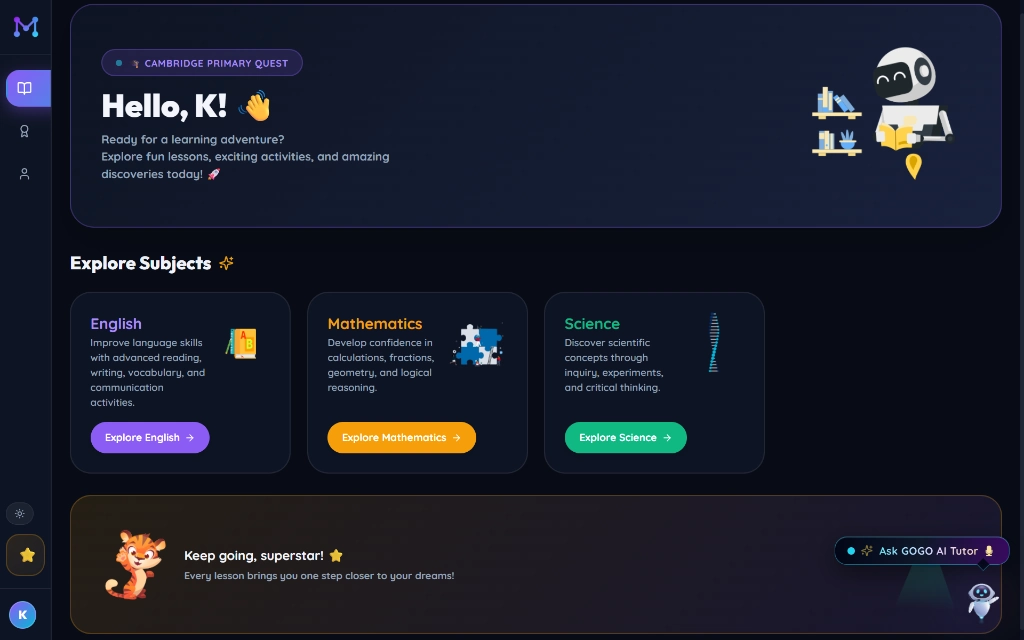
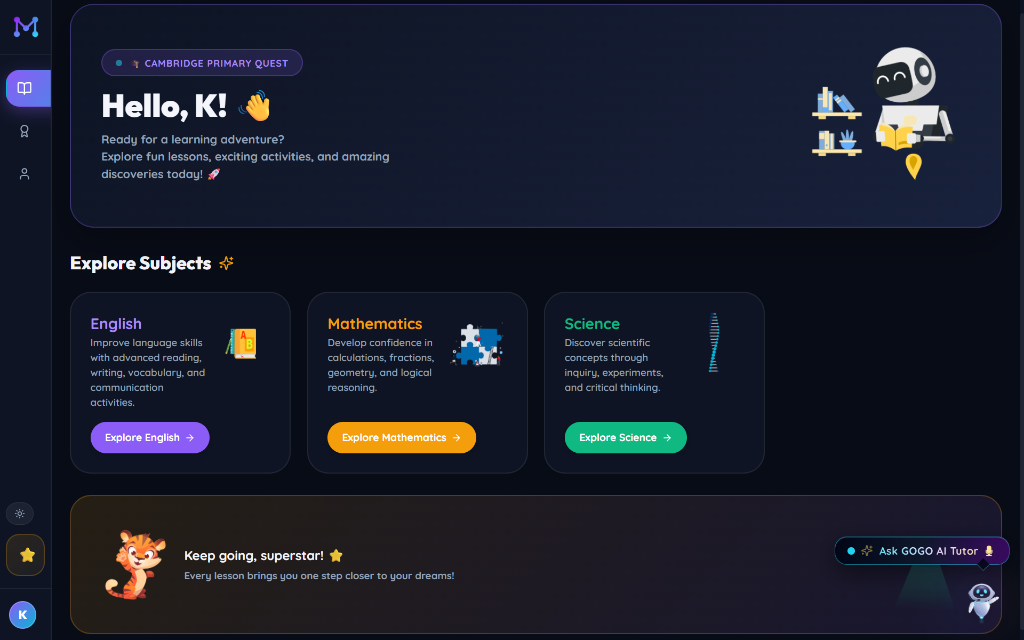
feat: Replace Card 04 with realistic Checkpoint Exam Engine display, use torch.webp for Card 01 simulation image

diff --git a/frontend/src/features/landing/LandingPage.jsx b/frontend/src/features/landing/LandingPage.jsx
@@ -776,28 +776,29 @@ function FeaturesBento() {
         <div className="grid grid-cols-1 md:grid-cols-3 lg:grid-cols-4 gap-4 auto-rows-[minmax(220px,auto)]">
           {/* Simulations */}
           <BentoCard
-            className="md:col-span-2 lg:col-span-2 lg:row-span-2"
+            className="md:col-span-2 lg:col-span-2"
             tag="01 · Interactive simulations"
             tagColor="text-cyan-400"
             title="Drag, adjust, and explore with hands-on labs."
             description="Over 120 interactive Cambridge Primary Science and Math models. Move light sources, adjust variables, watch shadows shift, and build lasting understanding."
+            icon={<Atom className="h-5 w-5 text-cyan-400" />}
             testid="feature-simulations"
           >
-            <div className="mt-6 relative h-56 rounded-xl border border-white/10 overflow-hidden bg-zinc-950">
+            <div className="mt-5 relative h-60 sm:h-64 rounded-xl border border-white/10 overflow-hidden bg-zinc-950">
               <img
-                src="https://images.pexels.com/photos/29067691/pexels-photo-29067691.jpeg?auto=compress&cs=tinysrgb&w=600"
-                alt="Simulation"
-                className="absolute inset-0 w-full h-full object-cover opacity-50"
+                src="/torch.webp"
+                alt="3D Science Simulation Lab"
+                className="absolute inset-0 w-full h-full object-cover object-center opacity-95 scale-110 sm:scale-120"
               />
               <div className="absolute inset-0 bg-gradient-to-t from-zinc-950 via-zinc-950/30 to-transparent" />
-              <div className="absolute bottom-4 left-4 right-4 flex items-end justify-between">
+              <div className="absolute bottom-3 left-3.5 right-3.5 flex items-end justify-between">
                 <div>
-                  <div className="font-mono-label text-[10px] uppercase tracking-[0.18em] text-cyan-400">
+                  <div className="font-mono-label text-[9.5px] uppercase tracking-[0.18em] text-cyan-400 font-bold">
                     Live · Primary Science · Light & Shadows
                   </div>
-                  <div className="font-display text-lg font-bold text-white mt-1">Shadow Length ⇌ Torch Distance</div>
+                  <div className="font-display text-base font-bold text-white mt-0.5">Shadow Length ⇌ Torch Distance</div>
                 </div>
-                <div className="px-3 py-1 rounded-full border border-cyan-500/40 bg-cyan-500/10 text-cyan-300 font-mono-label text-[9px] font-bold">
+                <div className="px-2.5 py-0.5 rounded-full border border-cyan-500/40 bg-cyan-500/10 text-cyan-300 font-mono-label text-[9px] font-bold">
                   RUNNING
                 </div>
               </div>
@@ -887,19 +888,66 @@ function FeaturesBento() {
             </div>
           </BentoCard>
 
-          {/* Auto exams */}
+          {/* Checkpoint Exam Engine */}
           <BentoCard
             className="md:col-span-3 lg:col-span-2"
-            tag="04 · Practice exam engine"
+            tag="04 · Checkpoint Exam Engine"
             tagColor="text-emerald-400"
-            title="Official exam format. Instant feedback."
-            description="Practice past papers under realistic exam timers. Automated grading checks answers instantly and highlights areas for improvement."
+            title="Realistic Checkpoint Exam Simulator."
+            description="Train under real exam conditions with strict timed papers, official Cambridge question formats, and structured scoring criteria."
+            icon={<Timer className="h-5 w-5 text-emerald-400" />}
             testid="feature-exams"
           >
-            <div className="mt-6 grid grid-cols-3 gap-2.5">
-              <MockTimer label="Paper 1" time="00:45:00" pct={62} color="cyan" />
-              <MockTimer label="Paper 2" time="01:15:00" pct={48} color="emerald" />
-              <MockTimer label="Paper 3" time="00:30:00" pct={91} color="cyan" />
+            <div className="mt-5 rounded-xl border border-white/10 bg-zinc-950 p-4 relative overflow-hidden">
+              {/* Header status bar */}
+              <div className="flex items-center justify-between border-b border-white/10 pb-3 mb-3">
+                <div className="flex items-center gap-2">
+                  <div className="h-2 w-2 rounded-full bg-emerald-400 animate-ping" />
+                  <span className="font-mono-label text-[10px] uppercase tracking-wider text-zinc-300 font-bold">
+                    Stage 5 Checkpoint Exam
+                  </span>
+                </div>
+                <span className="px-2.5 py-0.5 rounded-full border border-emerald-500/30 bg-emerald-500/10 text-emerald-400 font-mono-label text-[9px] font-bold uppercase tracking-wider">
+                  Exam Mode Active
+                </span>
+              </div>
+
+              {/* Center HUD: Countdown & Active Question */}
+              <div className="flex flex-col sm:flex-row items-center justify-between gap-4 py-1">
+                <div>
+                  <div className="font-mono text-2xl sm:text-3xl font-black text-white tracking-wider">
+                    00:45:00
+                  </div>
+                  <span className="text-[9.5px] text-zinc-500 font-mono-label uppercase tracking-wider block mt-0.5">
+                    Strict Time Limit · No Pause
+                  </span>
+                </div>
+
+                <div className="w-full sm:w-auto bg-white/[0.03] border border-white/10 rounded-xl p-2.5 text-left">
+                  <div className="text-[10px] font-mono-label text-cyan-400 font-bold">
+                    QUESTION 4 OF 12 · 4 MARKS
+                  </div>
+                  <div className="text-xs text-zinc-300 font-medium mt-1 truncate max-w-[210px]">
+                    Explain using a ray diagram how shadow length changes...
+                  </div>
+                </div>
+              </div>
+
+              {/* Progress bar */}
+              <div className="mt-3.5 pt-3 border-t border-white/5">
+                <div className="flex justify-between text-[9px] font-mono-label text-zinc-400 mb-1.5 font-bold">
+                  <span>EXAM PROGRESS</span>
+                  <span className="text-emerald-400">65% COMPLETED</span>
+                </div>
+                <div className="h-2 w-full rounded-full bg-zinc-900 overflow-hidden">
+                  <motion.div 
+                    className="h-full bg-gradient-to-r from-emerald-400 via-teal-400 to-cyan-400"
+                    initial={{ width: "0%" }}
+                    whileInView={{ width: "65%" }}
+                    transition={{ duration: 1.5, ease: "easeOut" }}
+                  />
+                </div>
+              </div>
             </div>
           </BentoCard>
 
